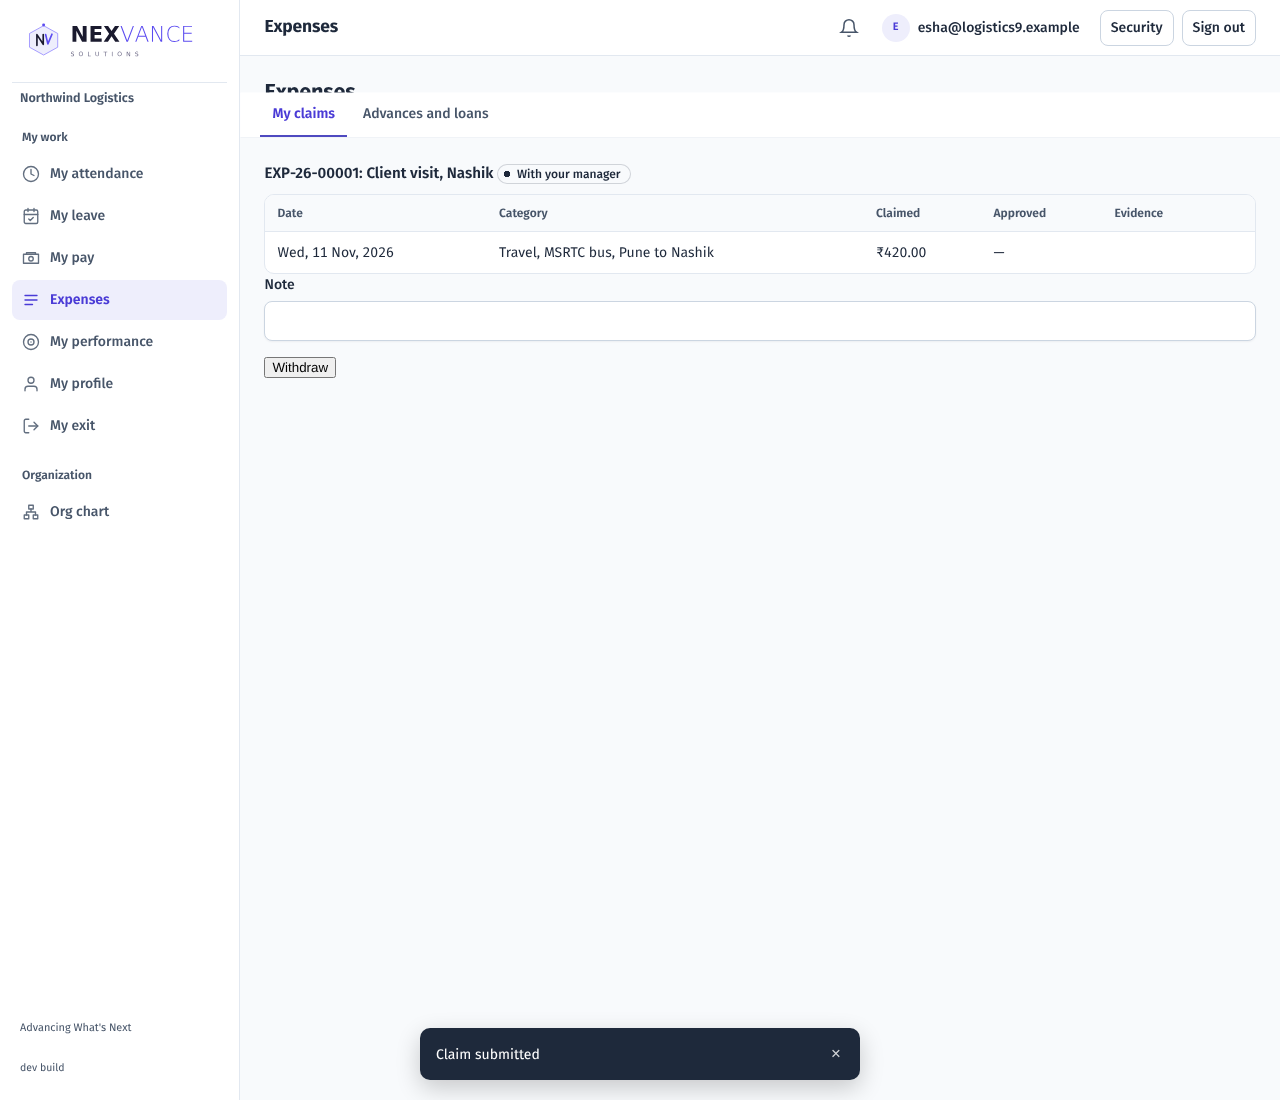
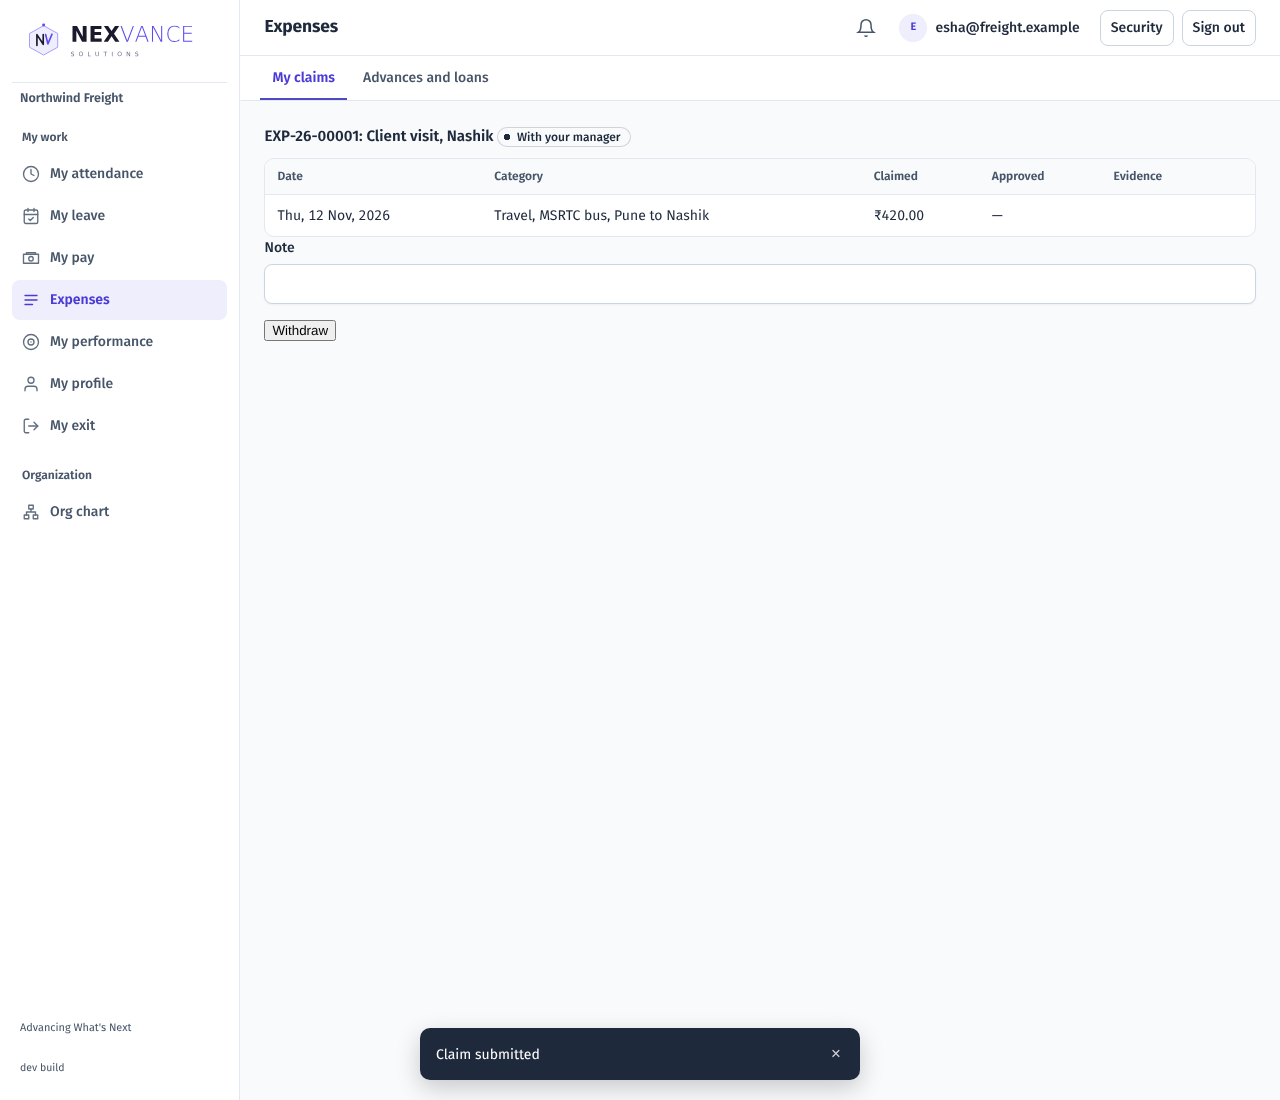
Browser tests: the expenses guide in its own Organization, new screenshots, exit clearance count
Claude-Session: https://claude.ai/code/session_01MKtFUAjdnYMY6aGLTxhxkh

diff --git a/e2e/tests/59-expenses-guide.spec.ts b/e2e/tests/59-expenses-guide.spec.ts
@@ -2,11 +2,11 @@ import { test, expect, type Page } from '@playwright/test';
 import { SUPER_ADMIN, newPage, nav, tab, api, isoDay, shot as save } from './helpers';
 import { join } from './join';
 
-// The screenshots in docs/user-guide/expenses.md, taken in a demo Organization of their own (Northwind Logistics),
+// The screenshots in docs/user-guide/expenses.md, taken in a demo Organization of their own (Northwind Freight),
 // and the claim's journey from draft to paid. Run with E2E_SHOTS=<folder>; without it the steps still run and nothing is saved.
 
 const RUN = process.env.E2E_RUN || '';
-const em = (n: string) => `${n}@logistics${RUN}.example`;
+const em = (n: string) => `${n}@freight${RUN}.example`;
 
 async function ok(r: Promise<{ status: number; body: any }>) {
   const done = await r;
@@ -19,7 +19,7 @@ test('the expenses guide, screen by screen', async ({ browser }) => {
   const admin = await newPage(browser); await admin.goto('/');
   await admin.fill('#email', SUPER_ADMIN.email); await admin.fill('#password', SUPER_ADMIN.password); await admin.click('button.primary');
   await expect(admin.getByText('Platform console')).toBeVisible();
-  const org = await ok(api(admin, 'POST', '/platform/organizations', { name: 'Northwind Logistics', slug: `northwind-logistics${RUN}`, adminEmail: em('owner') }));
+  const org = await ok(api(admin, 'POST', '/platform/organizations', { name: 'Northwind Freight', slug: `northwind-freight${RUN}`, adminEmail: em('owner') }));
   await admin.context().close();
   const owner = await join(browser, org.invitationToken, em('owner'));
   await ok(api(owner, 'POST', '/org/setup/starter', { starter: 'office', locationName: 'Pune office', stateCode: 'MH' }));

diff --git a/e2e/playwright.config.ts b/e2e/playwright.config.ts
@@ -124,7 +124,7 @@ export default defineConfig({
     { name: 'onboarding-cases', testMatch: /56-onboarding-cases\.spec\.ts/, use: desktop },
     // The onboarding user guide's screenshots (docs/user-guide/onboarding.md), in Northwind Pharma: E2E_SHOTS=<folder> --project=onboarding-guide.
     { name: 'onboarding-guide', testMatch: /57-onboarding-guide\.spec\.ts/, use: desktop },
-    // The expenses user guide's screenshots (docs/user-guide/expenses.md), in Northwind Logistics: E2E_SHOTS=<folder> --project=expenses-guide.
+    // The expenses user guide's screenshots (docs/user-guide/expenses.md), in Northwind Freight: E2E_SHOTS=<folder> --project=expenses-guide.
     { name: 'expenses-guide', testMatch: /59-expenses-guide\.spec\.ts/, use: desktop },
     // The attendance user guide's screenshots (docs/user-guide/attendance.md), in Northwind Foods: E2E_SHOTS=<folder> --project=attendance-guide.
     { name: 'attendance-guide', testMatch: /43-attendance-guide\.spec\.ts/, use: desktop },

diff --git a/e2e/tests/10-exit.spec.ts b/e2e/tests/10-exit.spec.ts
@@ -69,7 +69,8 @@ test.describe.serial('exit', () => {
   });
 
   test('clearance: tasks go to their owners, and the leaver records a claim owed to them', async () => {
-    await expect(hr.locator('.clearance')).toContainText('0 of 9 done');
+    // The advances, loans and claims task checks Expenses itself: Meera has nothing open there, so it is done from the start.
+    await expect(hr.locator('.clearance')).toContainText('1 of 9 done');
     await expect(hr.locator('.clearance .task-row[data-task="Plan the handover of work"]')).toContainText('Ananya Sen');
     await shot(hr, '88-clearance', true);
 

diff --git a/docs/user-guide/expenses.md b/docs/user-guide/expenses.md
@@ -1,6 +1,6 @@
 # Expenses, advances and loans: user guide
 
-For customers. How to claim an expense, how it is approved, verified and paid, how to ask for a salary advance or a loan, and how an Organization sets all this up. Open **Expenses** from the menu; the tabs you see depend on your role. Loans and advances need the Payroll module. The screenshots come from a demo Organization (Northwind Logistics); your names will differ.
+For customers. How to claim an expense, how it is approved, verified and paid, how to ask for a salary advance or a loan, and how an Organization sets all this up. Open **Expenses** from the menu; the tabs you see depend on your role. Loans and advances need the Payroll module. The screenshots come from a demo Organization (Northwind Freight); your names will differ.
 
 ## Overview
 
